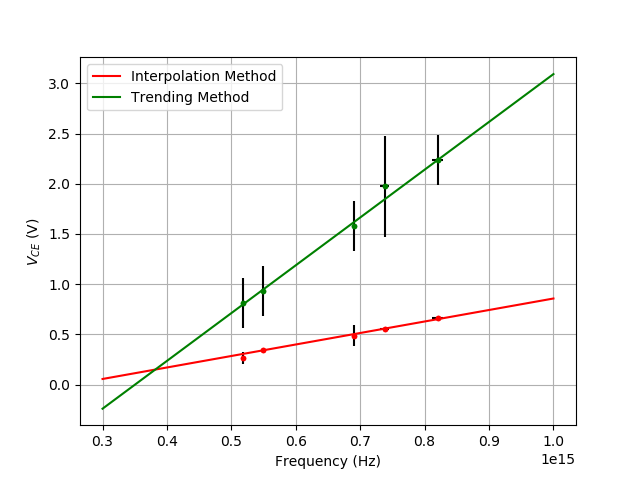
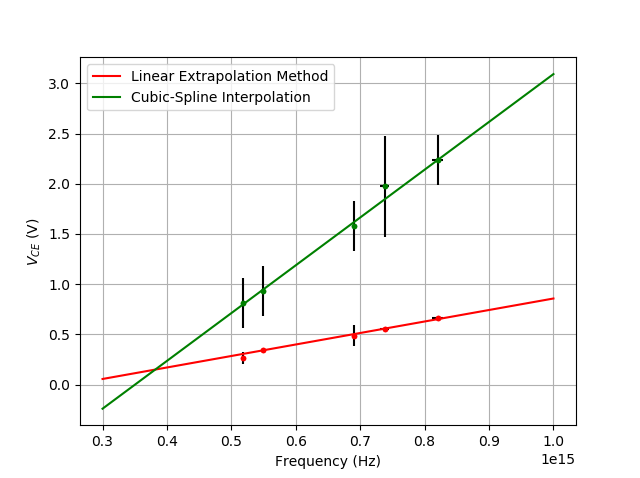
jn.

Changed region(s): [[0.1875, 0.1464, 0.5312, 0.2343]]

diff --git a/Photoelectric effect/Plots.py b/Photoelectric effect/Plots.py
@@ -68,10 +68,10 @@ plt.show()
 def linear_fit(x,y,i_0,i_1,err):
     return np.polyfit(x[i_0:i_1+1], y[i_0:i_1+1], 1,w=1/err[i_0:i_1+1],cov=True)
 
-col_ind=3
-i_0=13
-i_1=17
-i_0_1=25
+col_ind=1
+i_0=30
+i_1=35
+i_0_1=42
 i_1_1=len(x[col_ind])-1
 
 
@@ -84,13 +84,13 @@ yellow_poly_2=np.poly1d(yellow_line_2[0])
 
 plt.figure()
 #plt.plot(x[col_ind],y[col_ind],'.y')
-plt.plot(np.linspace(-3.5,1,num=10),yellow_poly_1(np.linspace(-3.5,1,num=10)),linewidth=2,label="Extrapolating Linear Section")
-plt.plot(np.linspace(-1,9,num=10),yellow_poly_2(np.linspace(-1,9,num=10)),color="red",linewidth=2,label="Extrapolating Offset Section")
+#plt.plot(np.linspace(-3.5,1,num=10),yellow_poly_1(np.linspace(-3.5,1,num=10)),linewidth=2,label="Extrapolating Linear Section")
+#plt.plot(np.linspace(-1,9,num=10),yellow_poly_2(np.linspace(-1,9,num=10)),color="red",linewidth=2,label="Extrapolating Offset Section")
 plt.errorbar(x[col_ind],y[col_ind], yerr=y_err[col_ind],fmt='--.',color="black", ecolor='black', capthick=2,label="Yellow Light Data")
-plt.plot(x[col_ind][i_0],y[col_ind][i_0],'or')
-plt.plot(x[col_ind][i_1],y[col_ind][i_1],'og')
-plt.plot(x[col_ind][i_0_1],y[col_ind][i_0_1],'or')
-plt.plot(x[col_ind][i_1_1-1],y[col_ind][i_1_1-1],'og')
+#plt.plot(x[col_ind][i_0],y[col_ind][i_0],'or')
+#plt.plot(x[col_ind][i_1],y[col_ind][i_1],'og')
+#plt.plot(x[col_ind][i_0_1],y[col_ind][i_0_1],'or')
+#plt.plot(x[col_ind][i_1_1-1],y[col_ind][i_1_1-1],'og')
 #plt.axis([-5, 5, -5, 175])
 plt.xlabel(r'Applied Voltage (V)')
 plt.ylabel(r'Current (nA)')
@@ -250,6 +250,27 @@ def cub_spl_nd(x1,y1):
 roots,x_spline,y_spline,x_spline_range=cub_spl(x[:-1],y[:-1])
 roots_nd,x_spline_nd,y_spline_nd,x_spline_range_nd=cub_spl_nd(x_nd,y_nd)
 
+fig, (ax3, ax4) = plt.subplots(1, 2)
+ax3.errorbar(x[0],y[0], yerr=y_err[0],fmt='.k', capthick=2,label="Yellow Light Data")
+ax3.plot(x_spline[0],y_spline[0],'--k',label='Cubic-Spline Fitting')
+ax3.axis(xmin=0,xmax=8,ymin=-1,ymax=20)
+#ax3.xlabel(r'Applied Voltage (V)')
+#plt.ylabel(r'Current (nA)')
+ax3.legend()
+ax3.grid()
+
+ax4.errorbar(x[0],y[0], yerr=y_err[0],fmt='.k', capthick=2,label="Yellow Light Data")
+ax4.plot(x_spline[0],y_spline[0],'--k',label='Cubic-Spline Fitting')
+ax4.axis(xmin=4.5,xmax=8,ymin=-0.15,ymax=-0.1)
+#ax3.xlabel(r'Applied Voltage (V)')
+#plt.ylabel(r'Current (nA)')
+ax4.legend()
+ax4.grid()
+ax3.set(xlabel=r'Applied Voltage (V)', ylabel=r'Current (nA)')
+ax4.set(xlabel=r'Applied Voltage (V)')
+
+
+#%%
 VCO_nd=[]
 VCO_err_nd=[]
 poly2_nd=[]
@@ -278,8 +299,8 @@ ax1.plot(np.linspace(2,11,10),np.zeros(10)+1,'--k')
 ax2.errorbar([3,4,5,10],np.array(roots_nd)/roots[1],yerr=np.array(x_spline_range_nd)/roots[1],fmt='.',color="black",label="Cubic-Spline Interpolation")
 ax2.plot(np.linspace(2,11,10),np.zeros(10)+1,'--k')
 ax2.grid()
-ax1.set(xlabel='Relative ND Filter Strength', ylabel=r'$V_{CE,Filter}/V_{CE,no Filter}$')
-ax2.set(xlabel='Relative ND Filter Strength')
+ax1.set(xlabel='Relative ND Filter Strength', ylabel=r'$V_{CE,Filter}/V_{CE,no Filter}$', title='Linear Extrapolation')
+ax2.set(xlabel='Relative ND Filter Strength',title='Cubic-Spline Interpolation')
 plt.show()
 #%%
 
@@ -297,8 +318,8 @@ plt.errorbar(freq[:-1],VCO, xerr=freq_err[:-1],yerr=VCO_err,fmt='.r',ecolor='bla
 plt.plot(freq[:-1],roots,'.g')
 plt.errorbar(freq[:-1],roots, xerr=freq_err[:-1],yerr=x_spline_range,fmt='.g',ecolor='black', capthick=2)
 
-plt.plot(np.linspace(3e14,1e15,num=10),line_inter_poly(np.linspace(3e14,1e15,num=10)),color="red",label='Interpolation Method')
-plt.plot(np.linspace(3e14,1e15,num=10),line_grad_poly(np.linspace(3e14,1e15,num=10)),color="green",label='Trending Method')
+plt.plot(np.linspace(3e14,1e15,num=10),line_inter_poly(np.linspace(3e14,1e15,num=10)),color="red",label='Linear Extrapolation Method')
+plt.plot(np.linspace(3e14,1e15,num=10),line_grad_poly(np.linspace(3e14,1e15,num=10)),color="green",label='Cubic-Spline Interpolation')
 plt.xlabel('Frequency (Hz)')
 plt.ylabel(r'$V_{CE}$ (V)')
 plt.legend()
@@ -335,7 +356,7 @@ for i in range(len(x)):
  
 plt.figure() 
 #plt.plot(freq,QE,'.') 
-plt.errorbar(freq,QE, xerr=freq_err,yerr=QE_err,fmt='.g',ecolor='black', capthick=2) 
+plt.errorbar(freq,QE, xerr=freq_err,yerr=QE_err,fmt='.k',ecolor='black', capthick=2) 
 plt.xlabel('Frequency (Hz)') 
 plt.ylabel('External Quantum Efficiency') 
 plt.grid() 
